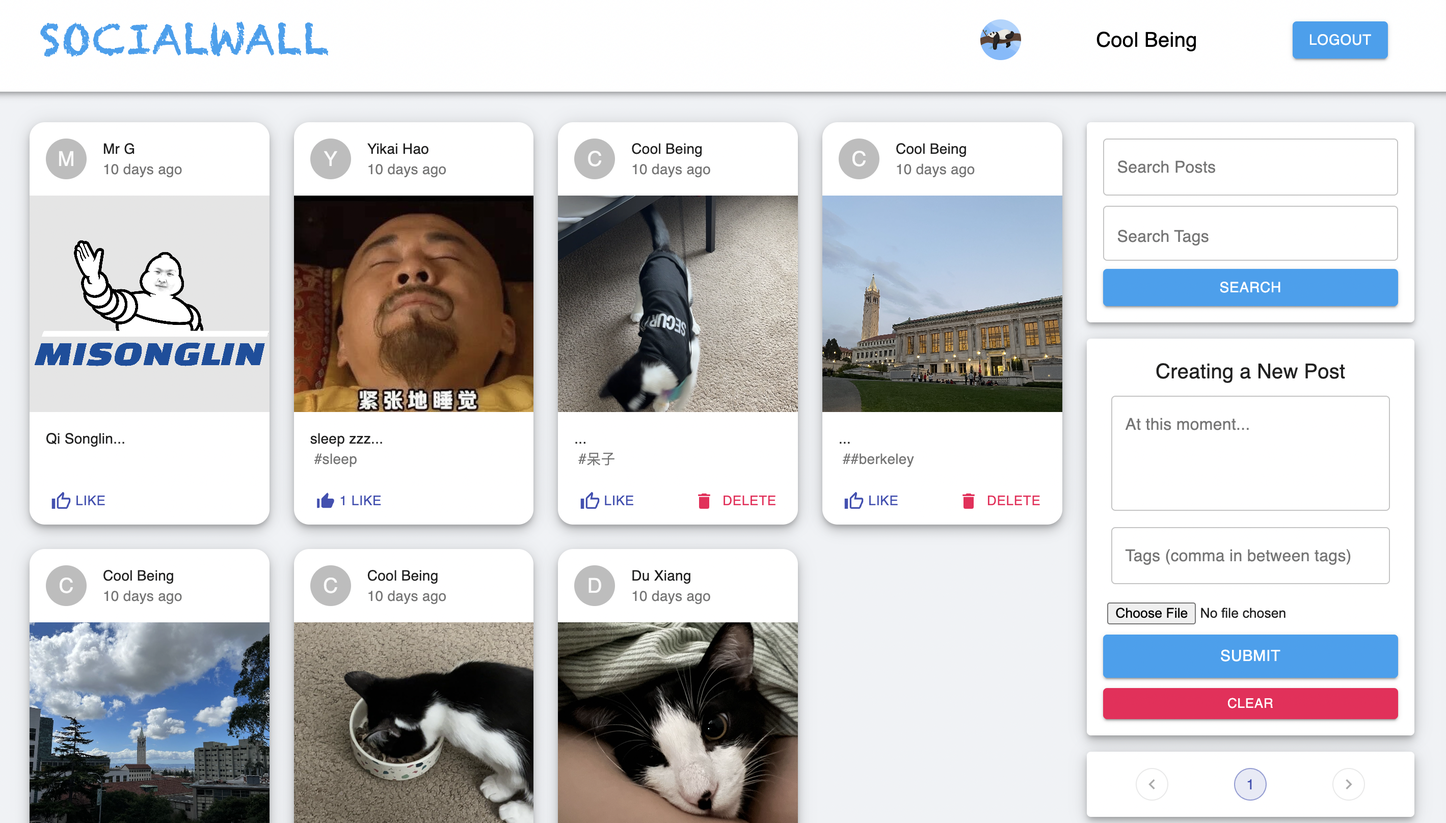
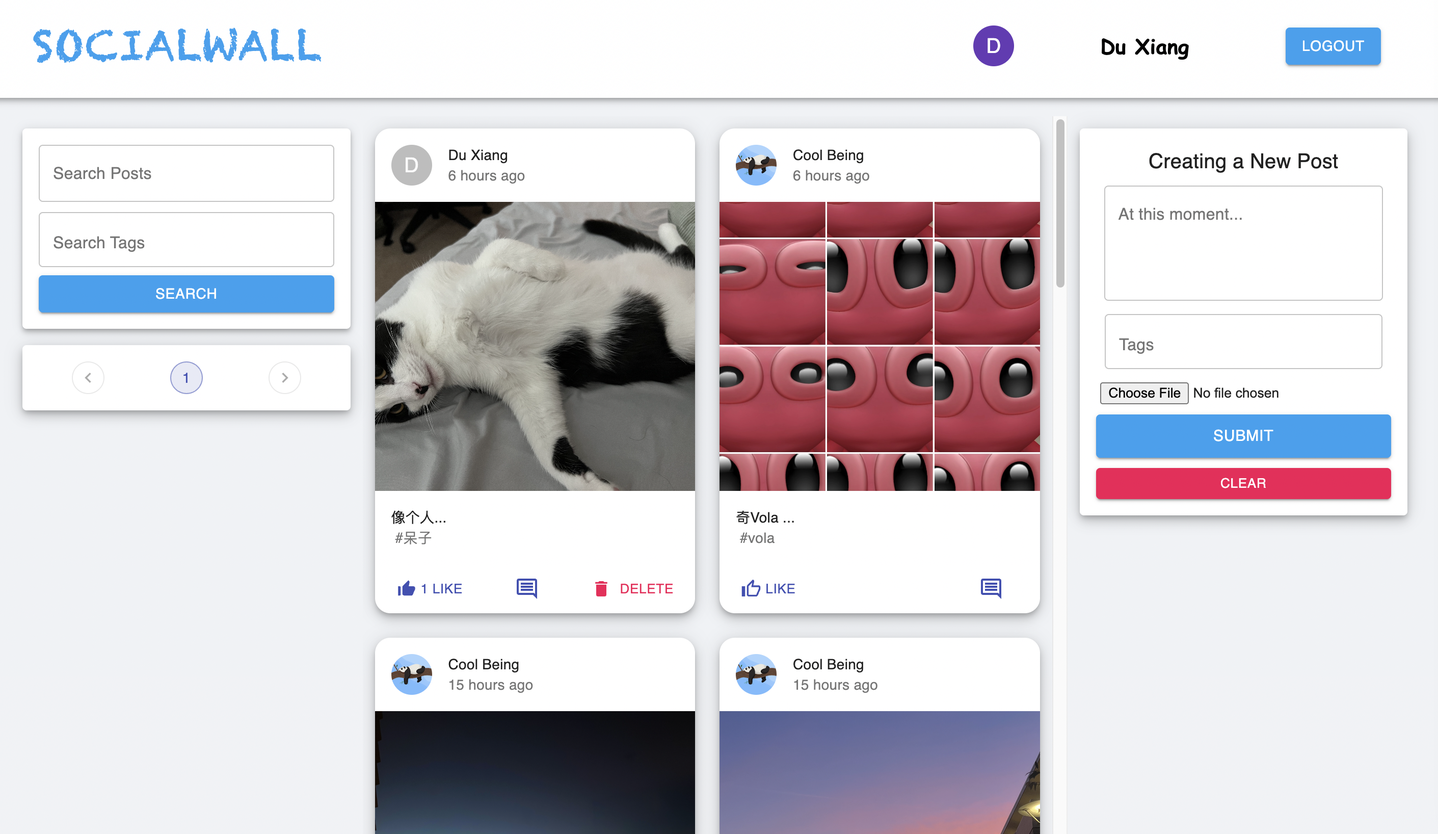
update readme

diff --git a/README.md b/README.md
@@ -19,7 +19,10 @@ A full stack social application using MERN stack.
 ## Demo
 
 ### Overall UI:
-![demo](./images/demo_ui.png)
+PC view            |  Mobil View
+:-------------------------:|:-------------------------:
+![](./images/demo_ui.png)  |  ![](./images/demo_ui2.png)
+
 
 ### Recommendation:
 ![demo](./images/recom.png)
